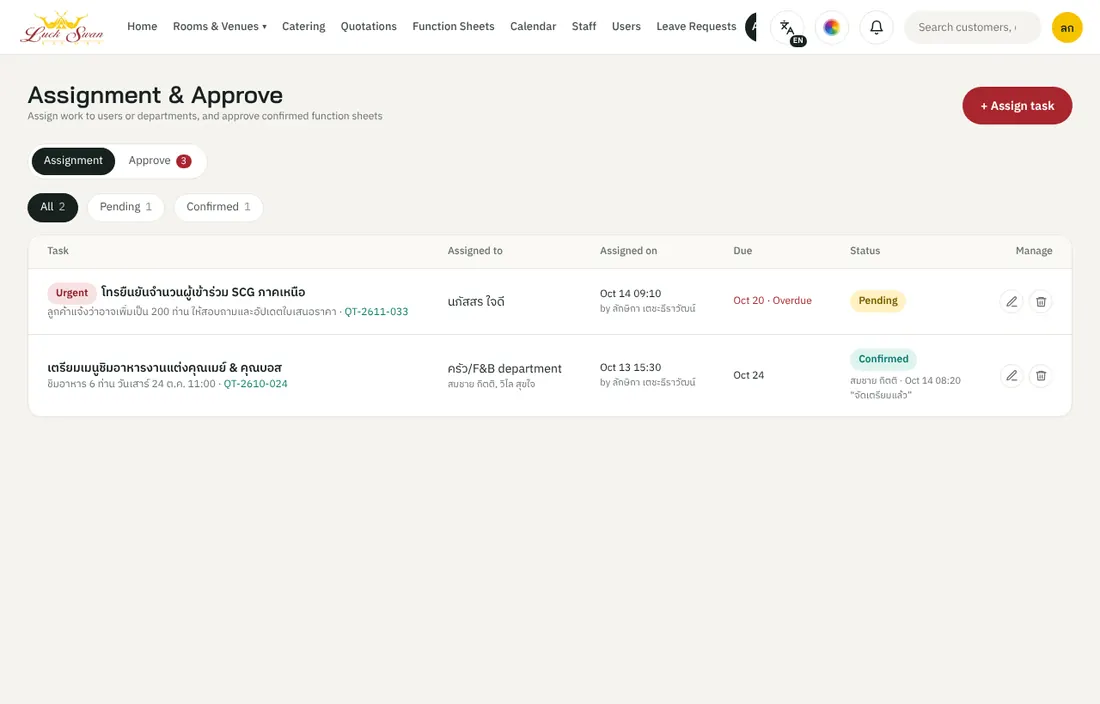
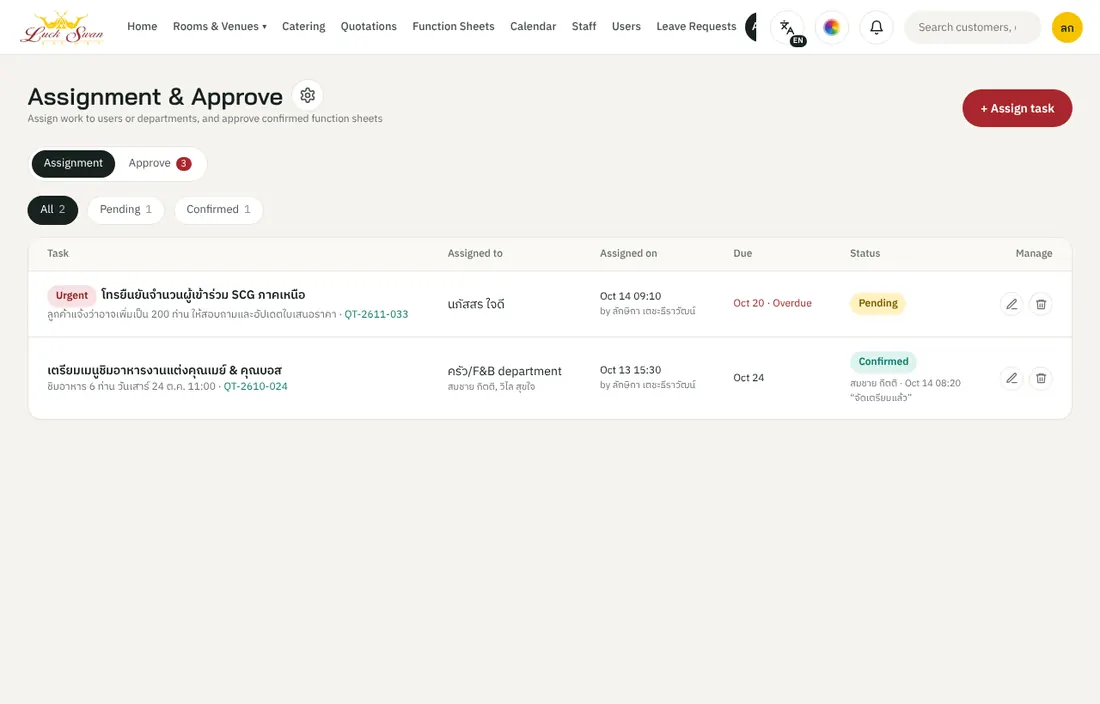
Manual 1.1 (Thai): meeting-room editing, net pricing, quotation copies and sheet editing, role permissions, assignment permissions
New screenshots for the meeting-room editor, the quotation's customer
and full copies and sheet editing, assigning to a department by site,
and the assignment permissions (org chart and form). shots.js: the
ONLY filter was inside a comment; it now works.

Claude-Session: https://claude.ai/code/session_015bPeSMdisNsHViU4e5orFu

diff --git a/docs/manual/content.th.js b/docs/manual/content.th.js
@@ -14,7 +14,7 @@ window.MANUAL.th = {
     title: 'คู่มือการใช้งานระบบงานขาย',
     subtitle: 'ลักษวรรณ รีสอร์ท — ใบเสนอราคา ห้องประชุม ห้องพัก จัดเลี้ยง ใบฟังก์ชัน พนักงาน ใบลา และงานที่มอบหมาย',
     url: 'https://luckswan-sales.it-luckswan.workers.dev',
-    version: '1.0', updated: '21 ต.ค. 2569',
+    version: '1.1', updated: '22 ต.ค. 2569',
     intro: 'ระบบงานขายเป็นเว็บแอปที่ใช้ได้ทั้งคอมพิวเตอร์ iPad และมือถือ ทุกคนเห็นข้อมูลชุดเดียวกันแบบเรียลไทม์ เมนูที่แต่ละคนเห็นขึ้นกับบทบาทและสิทธิ์ที่ผู้ดูแลระบบกำหนดให้ คู่มือนี้อธิบายทุกหมวดตั้งแต่เข้าสู่ระบบจนถึงงานของแต่ละแผนก พร้อมรูปหน้าจอจริงประกอบทุกขั้นตอน'
   },
   groups: [
@@ -87,10 +87,12 @@ window.MANUAL.th = {
         'เลือกรูปแบบการจัดห้อง: Theatre · Classroom · U-shape · Banquet · Cocktail — ระบบคำนวณความจุให้ตามรูปแบบ',
         'ดูการ์ดห้อง: ขนาด ความจุ ราคาเต็มวัน และสถานะ เช่น “ว่างทั้ง 2 วัน” หรือแถบแดงบอกวันที่มีงานแล้ว',
         'กดการ์ดห้อง เพื่อดูรายละเอียดด้านขวา: รูปห้อง ผังที่นั่ง เงื่อนไขห้อง และอุปกรณ์ในห้อง',
-        'กด “เลือกห้องนี้” เพื่อใส่ห้องลงในใบเสนอราคาที่กำลังทำ (แสดงเลขใบที่ “สำหรับ QT-…” ใต้หัวข้อ กด “เปลี่ยน” เพื่อเปลี่ยนใบ)'
+        'กด “เลือกห้องนี้” เพื่อใส่ห้องลงในใบเสนอราคาที่กำลังทำ (แสดงเลขใบที่ “สำหรับ QT-…” ใต้หัวข้อ กด “เปลี่ยน” เพื่อเปลี่ยนใบ)',
+        'รูปตัวอย่างห้อง: ปัดซ้าย-ขวา หรือกดลูกศร ‹ › เพื่อเลื่อนดูรูปถัดไป ทั้งในการ์ดห้องและแผงด้านขวา (ตัวนับ เช่น 2/3 บอกรูปที่กำลังดู)',
+        'ปุ่มดินสอ ✏ มุมขวาล่างของการ์ดห้อง (ผู้มีสิทธิ์แก้ราคา): แก้รูปตัวอย่าง (อัปโหลดได้หลายรูป ลบ เลื่อนลำดับ รูปแรกเป็นหน้าปก) ราคาเต็มวัน/ครึ่งวัน จำนวนคนที่รองรับแต่ละรูปแบบ (ต่ำสุด–สูงสุด เช่น 150–300 คน) พื้นที่ งานเลี้ยงการันตีขั้นต่ำ คำอธิบาย และสิ่งที่มีในห้อง แล้วกด “บันทึก” — มีปุ่ม “คืนค่าเริ่มต้น”'
       ],
-      shots: [{ img: 'meet', cap: 'รายการห้องประชุม พร้อมความจุและสถานะว่าง' }, { img: 'meet-sel', cap: 'เลือกห้องแล้ว: ผังที่นั่ง เงื่อนไข และอุปกรณ์ในห้อง' }],
-      tips: ['ถ้าจองห้องทับเวลากับงานอื่น ระบบจะเตือน และต้องให้ผู้ดูแลระบบอนุมัติก่อน', 'ห้องที่เกินความจุของรูปแบบที่เลือกจะขึ้นเตือน']
+      shots: [{ img: 'meet', cap: 'รายการห้องประชุม พร้อมความจุและสถานะว่าง' }, { img: 'meet-sel', cap: 'เลือกห้องแล้ว: ผังที่นั่ง เงื่อนไข และอุปกรณ์ในห้อง' }, { img: 'meet-edit', cap: 'แก้ไขห้องประชุม: รูป ราคา และจำนวนคนที่รองรับ' }],
+      tips: ['ถ้าจองห้องทับเวลากับงานอื่น ระบบจะเตือน และต้องให้ผู้ดูแลระบบอนุมัติก่อน', 'ห้องที่เกินความจุของรูปแบบที่เลือกจะขึ้นเตือน', 'ราคาห้องที่แก้ใหม่ ใช้กับรายการที่เพิ่มเข้าใบเสนอราคาหลังจากนี้ ใบเดิมไม่เปลี่ยน']
     },
     {
       id: 'rooms', group: 'sell', icon: 'bed', title: 'ห้องพักและการตั้งราคาห้อง', who: 'ฝ่ายขาย · ผู้ดูแลระบบ (ตั้งราคา)',
@@ -127,20 +129,20 @@ window.MANUAL.th = {
         'ค้นหาด้วยชื่อลูกค้าหรือเลขที่ใบ แล้วกดแถวเพื่อเปิด',
         'ในหน้าใบเสนอราคา รายการแบ่งเป็น ห้องประชุม · อาหารและเครื่องดื่ม · ห้องพัก — แก้จำนวนหรือราคาในช่องได้ทันที กด “+ เพิ่มรายการ…” เพื่อเพิ่ม',
         'สลับมุมมอง “ตาราง / ไทม์ไลน์” มุมขวาบน เพื่อดูกำหนดการรายวัน',
-        'กล่องสรุปยอดด้านขวา: ยอดก่อนส่วนลด · ส่วนลด · ค่าบริการ 10% · VAT 7% · ยอดสุทธิ และเฉลี่ยต่อท่าน',
+        'กล่องสรุปยอดด้านขวา: ราคาในใบเป็นราคา Net (รวม Service Charge และ VAT แล้ว) — ยอดรวมก่อนส่วนลด · ส่วนลด · ราคาก่อน Service Charge และ VAT · ค่าบริการ 10% · รวมก่อน VAT · VAT 7% · ยอดสุทธิ และเฉลี่ยต่อท่าน',
         'ส่วนลดเกิน 10% ต้องให้ผู้จัดการฝ่ายขายอนุมัติ',
         'ด้านล่างกำหนด ยืนราคาถึง · มัดจำ (เช่น 30% ภายใน 7 วันหลังยืนยัน) · จองห้องชั่วคราวถึงวันที่',
         'กด “แก้ไขข้อมูลลูกค้าและเงื่อนไข” เพื่อแก้ชื่อลูกค้า ผู้ติดต่อ เบอร์ อีเมล',
         'เปลี่ยนสถานะใบ (ส่งแล้ว / จองชั่วคราว / ยืนยันแล้ว / ยกเลิก) และดูประวัติการแก้ไขได้ที่ท้ายหน้า'
       ],
       shots: [{ img: 'quotes', cap: 'รายการใบเสนอราคาพร้อมตัวกรองสถานะ' }, { img: 'quote-edit', cap: 'หน้าแก้ไขใบเสนอราคาและกล่องสรุปยอด' }],
-      tips: ['ระบบบันทึกอัตโนมัติทุกครั้งที่แก้', 'ใบที่ยืนยันแล้วจะสร้างใบฟังก์ชันต่อได้']
+      tips: ['ระบบบันทึกอัตโนมัติทุกครั้งที่แก้', 'ใบที่ยืนยันแล้วจะสร้างใบฟังก์ชันต่อได้', 'วิธีถอดยอด: ราคาก่อน SC/VAT = ยอดสุทธิ ÷ 1.177 → Service Charge 10% ของราคานั้น → รวมก่อน VAT → VAT 7% เช่น 1,200 = 1,019.54 + 101.95 + 78.51']
     },
     {
       id: 'newquote', group: 'sell', icon: 'plus', title: 'สร้างใบเสนอราคาใหม่ (5 ขั้นตอน)', who: 'ฝ่ายขาย · ผู้จัดการฝ่ายขาย',
       intro: 'กด “+ ใบเสนอราคาใหม่” ระบบพาทำทีละขั้น ด้านขวาแสดงยอดสุทธิ (รวม Service + VAT) ตลอดเวลา',
       steps: [
-        'ขั้น 1 ลูกค้า: กรอกชื่องาน* และลูกค้า/บริษัท* ผู้ติดต่อ โทรศัพท์ อีเมล วันเริ่ม–วันสิ้นสุด และจำนวนผู้เข้าร่วม แล้วกด “ถัดไป”',
+        'ขั้น 1 ลูกค้า: กรอกชื่องาน* และลูกค้า/บริษัท* เลขผู้เสียภาษี (เลข 13 หลัก ไม่บังคับ) ผู้ติดต่อ โทรศัพท์ อีเมล วันเริ่ม–วันสิ้นสุด และจำนวนผู้เข้าร่วม แล้วกด “ถัดไป”',
         'ขั้น 2 ห้องประชุม: เลือกรูปแบบห้อง และติ๊กเลือกห้อง (ระบบบอกความจุและราคา) เลือกครึ่งวัน/เต็มวัน และ AV Package ได้',
         'ขั้น 3 อาหาร: เปิด/ปิดแต่ละมื้อ (Coffee break เช้า · อาหารกลางวัน · Coffee break บ่าย · Gala dinner · Cocktail) แล้วเลือกเมนู เพิ่มข้อจำกัดด้านอาหารได้',
         'ขั้น 4 ห้องพัก: กำหนดจำนวนคืน และจำนวนห้องแต่ละประเภท',
@@ -155,13 +157,16 @@ window.MANUAL.th = {
       intro: 'จากหน้าใบเสนอราคา กดปุ่ม “ส่ง / พิมพ์” จะเห็นตัวอย่างเอกสารจริงด้านซ้าย และแผงส่งด้านขวา',
       steps: [
         'ตรวจเอกสารด้านซ้าย (หัวบริษัท ผู้รับบริการ รายการ ราคา เงื่อนไข)',
+        'เลือกรูปแบบใบเสนอราคาที่แผงขวา: “ใบเสนอราคาสำหรับลูกค้า” (ซ่อนบรรทัดแยก Service Charge และ VAT แสดงยอดรวมสุทธิ) หรือ “ใบเสนอราคาฉบับเต็ม” (แสดงครบทุกบรรทัด) — พิมพ์และส่งตามแบบที่เลือก',
+        'กด “แก้ไขข้อมูล” (ฝ่ายขาย): ข้อความบนใบกลายเป็นช่องเส้นประให้พิมพ์แก้ได้ เช่น ชื่อลูกค้า ที่อยู่ เลขผู้เสียภาษี ชื่อรายการ รายละเอียด จำนวน เงื่อนไข ชื่อผู้ลงนาม — ปุ่ม ↺ = ใช้ค่าจากระบบ แล้วกด “บันทึกแก้ไขข้อมูล” (มีผลเฉพาะใบนั้น)',
+        'ส่วนห้องประชุมบนใบ: แสดงรูปห้องและราคา พิมพ์รายละเอียดห้องเองได้ในโหมดแก้ไข (กด “+ ใส่รายละเอียดห้องจากระบบ” เพื่อดึงข้อความเดิม) และกดที่รูปเพื่ออัปโหลดรูปใหม่ ✕ ลบรูป ↺ ใช้รูปของห้อง',
         'กด “พิมพ์ / PDF” เพื่อพิมพ์หรือบันทึกเป็น PDF',
         'ส่งทางอีเมล: ใส่อีเมลผู้รับ แก้ข้อความ เลือก “ให้ลูกค้ากดยืนยันและเซ็นออนไลน์” และ “แสดงราคาต่อหน่วย”',
         'กำหนด “ยืนราคาถึง” แล้วกด “ส่งใบเสนอราคา”',
         'ดูประวัติการส่งได้ที่ท้ายแผง'
       ],
-      shots: [{ img: 'quote-doc', cap: 'ตัวอย่างใบเสนอราคาและแผงส่งทางอีเมล' }],
-      tips: ['เอกสารที่ส่งให้ลูกค้าเป็นภาษาไทยเสมอ แม้จะใช้แอปเป็นภาษาอื่น']
+      shots: [{ img: 'quote-doc', cap: 'ใบเสนอราคาสำหรับลูกค้า และแผงส่งทางอีเมล' }, { img: 'quote-doc-full', cap: 'ใบเสนอราคาฉบับเต็ม (แสดงบรรทัดแยก Service Charge และ VAT)' }, { img: 'quote-doc-edit', cap: 'แก้ไขข้อมูลบนใบเสนอราคา' }],
+      tips: ['เอกสารที่ส่งให้ลูกค้าเป็นภาษาไทยเสมอ แม้จะใช้แอปเป็นภาษาอื่น', 'ยอดเงินและราคารวมแก้บนใบไม่ได้ — แก้ที่รายการในหน้าใบเสนอราคา', 'เงื่อนไขท้ายใบมีบรรทัด “ชำระผ่านบัตรเครดิตมีค่าบริการเพิ่ม 3% ของยอดใบเสนอราคา” · ใบที่เคยแก้ช่องเงื่อนไขเอง กด ↺ เพื่อรับข้อความล่าสุด']
     },
     {
       id: 'beo', group: 'event', icon: 'list', title: 'ใบฟังก์ชัน (BEO)', who: 'ฝ่ายขาย · ผู้จัดการ · หัวหน้าแผนก · บัญชี (ดู)',
@@ -173,13 +178,13 @@ window.MANUAL.th = {
         'กำหนดการรายวัน: เวลา รายละเอียด สถานที่ และแผนกที่รับผิดชอบ (สลับ “วันที่ 1 / วันที่ 2”) — นำเข้าจากไฟล์ Excel ได้',
         'การ์ดแต่ละแผนก (ครัว จัดเลี้ยง ช่าง ส่วนหน้า แม่บ้าน บัญชี) แสดงรายการงานและสถานะ “รับทราบแล้ว / รอรับทราบ” กด “แก้ไข” เพื่อเพิ่มงานของแผนก',
         'ทุกครั้งที่แก้หลังส่งแล้ว ระบบนับ “แก้ไขครั้งที่ …” และส่งให้ผู้ดูแลระบบอนุมัติก่อนส่งแผนก',
-        'ปุ่มด้านบน: รายละเอียดฟังก์ชัน · ใบสรุปสำหรับฝ่ายขาย · ออกแบบผังงาน · แก้ไขปรับปรุง · พิมพ์ / PDF'
+        'ปุ่มด้านบน: รายละเอียดฟังก์ชัน · ใบสรุปสำหรับฝ่ายขาย · ออกแบบผังงาน (ผู้ดูแลระบบ แผนก F&B และแผนกจัดเลี้ยง) · แก้ไขปรับปรุง (ผู้ดูแลระบบ) · พิมพ์ / PDF'
       ],
       shots: [{ img: 'beo', cap: 'ใบฟังก์ชัน: กำหนดการรายวันและการ์ดแต่ละแผนก' }, { img: 'beo-list', cap: 'รายการใบฟังก์ชันพร้อมสถานะการรับทราบ' }],
       tips: ['หัวหน้าแผนกควรกด “รับทราบ” ทุกครั้งที่มีใบใหม่หรือมีการแก้ไข']
     },
     {
-      id: 'plan', group: 'event', icon: 'grid', title: 'ออกแบบผังงานและแก้ไขปรับปรุงห้อง', who: 'ฝ่ายขาย · หัวหน้าจัดเลี้ยง',
+      id: 'plan', group: 'event', icon: 'grid', title: 'ออกแบบผังงานและแก้ไขปรับปรุงห้อง', who: 'ผู้ดูแลระบบ · แผนก F&B · แผนกจัดเลี้ยง (หัวหน้าและพนักงาน)',
       intro: 'วาดผังการจัดห้องจากใบฟังก์ชัน พิมพ์แนบให้ทีมจัดห้อง',
       steps: [
         'จากใบฟังก์ชัน กด “ออกแบบผังงาน” เลือกวัน (วันที่ 1 / วันที่ 2)',
@@ -189,13 +194,14 @@ window.MANUAL.th = {
         '“แก้ไขปรับปรุง”: ตั้งขนาดห้อง (เมตร) และของที่ห้ามย้าย เช่น เวที ประตู เสา ปลั๊ก — ใช้กับทุกงานของห้องนั้น'
       ],
       shots: [{ img: 'plan', cap: 'ออกแบบผังงาน: เทมเพลต เพิ่มของ และผังห้อง' }, { img: 'plansetup', cap: 'แก้ไขปรับปรุง: ขนาดห้องและของที่ห้ามย้าย' }],
-      tips: ['ผังพิมพ์เป็น PDF แนบกับใบฟังก์ชันได้']
+      tips: ['ผังพิมพ์เป็น PDF แนบกับใบฟังก์ชันได้', 'ระบบดูจากช่อง “แผนก” ในบัญชีผู้ใช้: ครัว / F&B / อาหารและเครื่องดื่ม / จัดเลี้ยง / Banquet — คนอื่นเห็นภาพผังย่อในใบฟังก์ชันได้ แต่เปิดหน้าออกแบบไม่ได้', '“แก้ไขปรับปรุง” ใช้ได้เฉพาะผู้ดูแลระบบ']
     },
     {
-      id: 'fnforms', group: 'event', icon: 'print', title: 'รายละเอียดฟังก์ชันและใบสรุปสำหรับฝ่ายขาย', who: 'ฝ่ายขาย · บัญชี',
+      id: 'fnforms', group: 'event', icon: 'print', title: 'รายละเอียดฟังก์ชันและใบสรุปสำหรับฝ่ายขาย', who: 'ผู้ดูแลระบบ · ผู้จัดการฝ่ายขาย · พนักงานขาย (แก้ไข) · บัญชี · หัวหน้าแผนก (ดู)',
       intro: 'แบบฟอร์มสำหรับพิมพ์ ตรงตามฟอร์มกระดาษเดิมของโรงแรม ข้อมูลดึงจากใบเสนอราคาและใบฟังก์ชัน',
       steps: [
-        'กด “รายละเอียดฟังก์ชัน” — สลับ “ตัวอย่างพิมพ์ / แก้ไขข้อมูล” ใส่ Function No. (ระบบออกเลขอัตโนมัติหรือกรอกเอง)',
+        'กด “รายละเอียดฟังก์ชัน” — สลับ “ตัวอย่างพิมพ์ / แก้ไขข้อมูล” ใส่ Function No. (ระบบออกเลขอัตโนมัติหรือกรอกเอง) — แท็บแก้ไขข้อมูล ปุ่ม “+ เพิ่มรายละเอียด” และการออกเลข ใช้ได้เฉพาะผู้ดูแลระบบ ผู้จัดการฝ่ายขาย และพนักงานขาย',
+        'ส่วน “แผนกบัญชี / การเงิน” (ยอดรวม รายละเอียดค่าใช้จ่าย ที่อยู่ออกบิล) เห็นเฉพาะผู้ดูแลระบบ ผู้จัดการฝ่ายขาย พนักงานขาย และบัญชี — บทบาทอื่นเห็นเฉพาะแผนกต้อนรับเต็มความกว้าง',
         'กด “ใบสรุปสำหรับฝ่ายขาย” — สรุปรายรับจากฟังก์ชัน ค่าอาหาร อาหารว่าง ห้องพัก และรายละเอียดใบกำกับภาษี',
         'ตรวจแล้วกด “พิมพ์ / PDF”'
       ],
@@ -255,17 +261,20 @@ window.MANUAL.th = {
       tips: []
     },
     {
-      id: 'tasks', group: 'people', icon: 'check', title: 'Assignment & Approve (งานที่มอบหมายและการอนุมัติ)', who: 'ทุกคน (รับงาน) · ผู้ดูแลระบบ (Approve)',
+      id: 'tasks', group: 'people', icon: 'check', title: 'Assignment & Approve (งานที่มอบหมายและการอนุมัติ)', who: 'ทุกคน (รับงาน) · ผู้ดูแลระบบและบทบาทที่ได้รับสิทธิ์ (มอบหมายงาน) · ผู้ดูแลระบบ (Approve · ⚙ ตั้งค่าสิทธิ์)',
       intro: 'มอบหมายงานให้ผู้ใช้หรือทั้งแผนก ติดตามสถานะ และอนุมัติใบฟังก์ชันที่แก้ไข',
       steps: [
         'แท็บ Assignment: ดูงานทั้งหมด กรอง รอดำเนินการ / ยืนยันแล้ว — งานด่วนมีป้าย “ด่วน” งานเลยกำหนดเป็นสีแดง',
         'กด “+ มอบหมายงาน” กรอกชื่องาน รายละเอียด มอบให้ (ผู้ใช้ หรือ แผนก) กำหนดเสร็จ ความด่วน และผูกกับใบเสนอราคาได้',
+        'มอบให้แผนก: กดปุ่ม “สถานที่” (ทุกสถานที่ · รีสอร์ท · บูติก · มณีอินทร์ · ช.ดรักส์ · ช.เฮ้าส์ · ภูมณีพันธุ์) ตัวเลขบนปุ่มบอกจำนวนพนักงานของแผนกในสถานที่นั้น แล้วติ๊กเลือกพนักงาน (ไม่เลือก = ทั้งแผนก) — สถานที่แสดงในตารางงาน',
+        'ปุ่ม ⚙ ข้างหัวข้อ (ผู้ดูแลระบบ): ตั้งค่าสิทธิ์การสั่งงาน 2 แบบ — “แบบผังองค์กร” (บทบาทด้านบนสั่งงานได้ทุกบทบาทและแผนกที่อยู่ใต้สาย เปลี่ยน “อยู่ใต้” เพื่อย้าย มีปุ่ม − + พอดีจอ 100% สำหรับซูม และ ✏ แก้ชื่อ ＋ เพิ่มบทบาท/แผนก 🗑 ลบ บนกล่อง) หรือ “แบบฟอร์มสำหรับเลือก” (แต่ละบทบาทเลือกบทบาทและแผนกที่สั่งงานได้) — กดบันทึกแล้วใช้แบบที่เลือก',
+        'บทบาทที่ได้รับสิทธิ์จะเห็นปุ่ม “+ มอบหมายงาน” (เลือกได้เฉพาะคนและแผนกที่อนุญาต) และรายการ “งานที่ฉันมอบหมาย” ซึ่งแก้ไข/ลบได้เฉพาะงานของตัวเอง และได้แจ้งเตือนเมื่อผู้รับยืนยัน',
         'ผู้รับงานกดงานจากหน้าหลักหรือกระดิ่ง เพื่อดูรายละเอียด แล้วกด “ยืนยัน” พร้อมข้อความ เช่น “จัดเตรียมแล้ว”',
         'แท็บ Approve (ผู้ดูแลระบบ): รายการใบฟังก์ชันที่รออนุมัติ กด “ดู” เพื่อเทียบการเปลี่ยนแปลง แล้ว “อนุมัติ” หรือตีกลับ',
         'ใบที่อนุมัติแล้ว ส่งให้แผนกได้ และย้ายไปส่วน “อนุมัติแล้ว”'
       ],
-      shots: [{ img: 'tasks', cap: 'รายการงานที่มอบหมาย' }, { img: 'task-new', cap: 'มอบหมายงานใหม่' }, { img: 'task-view', cap: 'รายละเอียดงานที่ได้รับ' }, { img: 'tasks-approve', cap: 'Approve: ใบฟังก์ชันรออนุมัติ' }],
-      tips: ['งานที่มอบให้แผนก ทุกคนในแผนกเห็นและยืนยันได้']
+      shots: [{ img: 'tasks', cap: 'รายการงานที่มอบหมาย และปุ่ม ⚙ ตั้งค่าสิทธิ์' }, { img: 'task-new', cap: 'มอบหมายงานใหม่' }, { img: 'task-site', cap: 'มอบให้แผนก: เลือกสถานที่และพนักงาน' }, { img: 'task-perms-org', cap: 'ตั้งค่าสิทธิ์การสั่งงาน: แบบผังองค์กร' }, { img: 'task-perms-form', cap: 'ตั้งค่าสิทธิ์การสั่งงาน: แบบฟอร์มสำหรับเลือก' }, { img: 'task-view', cap: 'รายละเอียดงานที่ได้รับ' }, { img: 'tasks-approve', cap: 'Approve: ใบฟังก์ชันรออนุมัติ' }],
+      tips: ['งานที่มอบให้แผนก ทุกคนในแผนกเห็นและยืนยันได้', 'ถ้ายังไม่ตั้งค่าสิทธิ์ มีเพียงผู้ดูแลระบบที่มอบหมายงานได้ · ผู้ดูแลระบบสั่งงานได้ทุกคนเสมอ', 'ลบบทบาทหรือแผนกในผังได้เฉพาะที่สร้างเพิ่มเองและไม่มีคนอยู่ · การเปลี่ยนแปลงในผังมีผลเมื่อกดบันทึก']
     },
     {
       id: 'leave', group: 'people', icon: 'leave', title: 'การแจ้งใบลา (QT · เปลี่ยนวันหยุด · ลืมสแกนนิ้ว)', who: 'ทุกคน (แจ้ง) · ผู้ดูแลระบบ (ลงนาม/อนุมัติ) · ฝ่ายบุคคล (ข้อมูลรายละเอียด)',
@@ -292,7 +301,7 @@ window.MANUAL.th = {
         'กด “+ เพิ่มผู้ใช้” กรอกชื่อ อีเมล (ใช้เข้าสู่ระบบ) เบอร์ บทบาท แผนก แล้วบันทึก — รหัสผ่านเริ่มต้นแจ้งผู้ใช้ให้เปลี่ยนเมื่อเข้าครั้งแรก',
         'กดชื่อผู้ใช้ เพื่อดูแผงด้านขวา เปิด/ปิดสิทธิ์รายข้อ เช่น สร้างและส่งใบเสนอราคา · ให้ส่วนลดได้ถึง 10% · อนุมัติส่วนลดเกิน 10% · ดูใบฟังก์ชันและปฏิทิน · จัดการข้อมูลลูกค้า · จัดรอบพนักงาน · จัดการผู้ใช้งาน · แก้ไขราคาและแพ็กเกจ · ดูข้อมูลรายละเอียดใบลา (ฝ่ายบุคคล)',
         'กด ✏ เพื่อแก้ไขข้อมูล เปลี่ยนสถานะ (ใช้งานอยู่ / ปิดใช้) ยืนยันตัวตน 2 ขั้นตอน หรือรีเซ็ตรหัสผ่าน',
-        'บทบาท: กด “+ เพิ่มบทบาท” ตั้งชื่อ เลือกเมนูที่มองเห็นและสิทธิ์ แล้วบันทึก — เมื่อบันทึกบทบาท สิทธิ์จะอัปเดตให้ทุกคนในบทบาทนั้น'
+        'บทบาท: กด “+ เพิ่มบทบาท” ตั้งชื่อ เลือกเมนูที่มองเห็นและสิทธิ์ แล้วบันทึก — เมื่อบันทึกบทบาท สิทธิ์จะอัปเดตให้ทุกคนในบทบาทนั้น (เพิ่ม/แก้ชื่อ/ลบบทบาทจากผังองค์กรใน Assignment ⚙ ได้ด้วย)'
       ],
       shots: [{ img: 'users', cap: 'รายชื่อผู้ใช้และแผงสิทธิ์' }, { img: 'user-edit', cap: 'แก้ไขข้อมูลผู้ใช้' }, { img: 'role', cap: 'สิทธิ์การใช้งานรายข้อ' }],
       tips: ['เปลี่ยนบทบาทแล้ว สิทธิ์จะเปลี่ยนตามบทบาทใหม่ (ปรับรายข้อได้ภายหลัง)', 'ใบเสนอราคาที่ส่งไปแล้วไม่เปลี่ยนตามการเปลี่ยนสิทธิ์']
@@ -326,8 +335,8 @@ window.MANUAL.th = {
       id: 'q-sales', title: 'ฝ่ายขาย (พนักงานขาย)', color: '#0E9F8E', menus: 'หน้าหลัก · การจัดการห้อง · จัดเลี้ยง · ใบเสนอราคา · ใบฟังก์ชัน · ปฏิทิน · การแจ้งใบลา · Assignment',
       can: ['สร้างและส่งใบเสนอราคา', 'ให้ส่วนลดได้ถึง 10%', 'ดูใบฟังก์ชันและปฏิทินการจอง', 'จัดการข้อมูลลูกค้า'],
       steps: [
-        'กด “+ ใบเสนอราคาใหม่” › ทำ 5 ขั้น: ลูกค้า › ห้องประชุม › อาหาร › ห้องพัก › สรุป',
-        'เปิดใบเสนอราคา › ปรับรายการ ส่วนลด เงื่อนไข › กด ส่ง / พิมพ์ › ส่งอีเมลหรือพิมพ์ PDF',
+        'กด “+ ใบเสนอราคาใหม่” › ทำ 5 ขั้น: ลูกค้า (ใส่เลขผู้เสียภาษีได้) › ห้องประชุม › อาหาร › ห้องพัก › สรุป',
+        'เปิดใบเสนอราคา › ปรับรายการ ส่วนลด เงื่อนไข › กด ส่ง / พิมพ์ › เลือก ใบสำหรับลูกค้า / ฉบับเต็ม › แก้ข้อมูลบนใบได้ › ส่งอีเมลหรือพิมพ์ PDF',
         'ลูกค้ายืนยัน › เปลี่ยนสถานะเป็น “ยืนยันแล้ว” › ใบฟังก์ชัน › “+ สร้างจากใบเสนอ”',
         'กรอกกำหนดการรายวันและงานของแต่ละแผนก › ติดตามการรับทราบ',
         'ดูปฏิทินก่อนรับงานใหม่ เพื่อเช็คห้องว่าง'
@@ -340,7 +349,7 @@ window.MANUAL.th = {
       steps: [
         'ตรวจใบเสนอราคาที่ส่วนลดเกิน 10% แล้วอนุมัติ',
         'ดูหน้าหลัก: เป้าเดือน และใบเสนอราคาล่าสุด',
-        'มอบหมายงานให้ทีม: Assignment › “+ มอบหมายงาน”',
+        'มอบหมายงานให้ทีม: Assignment › “+ มอบหมายงาน” (เมื่อผู้ดูแลระบบให้สิทธิ์ใน ⚙)',
         'อนุมัติคำขอต่อรอบ (QT) ในหน้ารอบพนักงาน',
         'เพิ่ม/แก้ไขผู้ใช้ในทีมขาย และกำหนดสิทธิ์'
       ],
@@ -351,7 +360,7 @@ window.MANUAL.th = {
       can: ['ดูใบฟังก์ชันและปฏิทินการจอง', 'จัดรอบพนักงาน / อนุมัติต่อรอบ'],
       steps: [
         'เช็คกระดิ่งทุกเช้า: ใบฟังก์ชันใหม่หรือแก้ไข › เปิดใบ › กด “รับทราบ” ในการ์ดแผนกของตัวเอง',
-        'ดูกำหนดการรายวันและผังงาน เพื่อเตรียมของและคน',
+        'ดูกำหนดการรายวันและผังงาน เพื่อเตรียมของและคน (F&B และจัดเลี้ยง: ออกแบบผังงานได้)',
         'พนักงาน › รอบพนักงาน › เลือกงาน › จัดพนักงานเข้ารอบ › ขอต่อรอบเมื่อจำเป็น',
         'ดูแลรายชื่อพนักงานในแผนก (เพิ่ม/แก้ไข/นำเข้า)',
         'งานที่มอบหมายให้แผนก › เปิดดู › กด “ยืนยัน” เมื่อเตรียมเสร็จ'
@@ -364,6 +373,7 @@ window.MANUAL.th = {
       steps: [
         'ดูใบเสนอราคาที่ยืนยันแล้ว: ยอดสุทธิ เงื่อนไขมัดจำ และข้อมูลลูกค้า',
         'ใบฟังก์ชัน › “ใบสรุปสำหรับฝ่ายขาย” ตรวจรายรับ ค่าอาหาร ห้องพัก และข้อมูลใบกำกับภาษี › พิมพ์ / PDF',
+        'รายละเอียดฟังก์ชัน › ส่วน “แผนกบัญชี / การเงิน” ดูยอดรวมและรายละเอียดค่าใช้จ่าย',
         'รับทราบการ์ด “บัญชี (Accounting)” ในใบฟังก์ชัน',
         'ปฏิทิน › มุมมอง Pipeline ดูยอดที่รอยืนยัน'
       ],
@@ -385,13 +395,13 @@ window.MANUAL.th = {
       id: 'q-admin', title: 'ผู้ดูแลระบบ', color: '#17211F', menus: 'ทุกเมนู',
       can: ['ทุกสิทธิ์', 'ลงนามและอนุมัติใบลา', 'อนุมัติใบฟังก์ชันที่แก้ไข และการจองห้องทับเวลา', 'แก้ไขราคาห้องพักและเมนู', 'จัดการผู้ใช้ บทบาท และสิทธิ์'],
       steps: [
-        'Assignment & Approve › แท็บ Approve: อนุมัติใบฟังก์ชันที่แก้ไข',
+        'Assignment & Approve › แท็บ Approve: อนุมัติใบฟังก์ชันที่แก้ไข · ⚙ ตั้งค่าสิทธิ์การสั่งงาน (ผังองค์กร / แบบฟอร์ม)',
         'การแจ้งใบลา › แท็บ รออนุมัติ › เปิดใบ › ลงนาม / ไม่อนุมัติ',
         'ผู้ใช้งาน: สร้างบัญชี กำหนดบทบาทและสิทธิ์ เปิด/ปิดผู้ใช้',
-        'ตั้งราคาห้องพัก และแก้เมนูจัดเลี้ยงเมื่อราคาเปลี่ยน',
+        'ตั้งราคาห้องพัก แก้ห้องประชุม (✏ รูป ราคา จำนวนคน) และแก้เมนูจัดเลี้ยงเมื่อราคาเปลี่ยน',
         'Dashboard: ติดตามยอดขาย · สำรองข้อมูลเป็นระยะ'
       ],
-      shots: ['tasks-approve', 'leave-view', 'dash'], links: ['tasks', 'leave', 'users', 'rooms', 'food', 'dash', 'backup']
+      shots: ['tasks-approve', 'task-perms-org', 'leave-view', 'dash'], links: ['tasks', 'leave', 'users', 'meet', 'rooms', 'food', 'dash', 'backup']
     },
     {
       id: 'q-all', title: 'พนักงานทุกคน', color: '#6B716E', menus: 'หน้าหลัก · การแจ้งใบลา · งานที่มอบหมาย',
@@ -406,6 +416,7 @@ window.MANUAL.th = {
     }
   ],
   changelog: [
+    { v: '1.1', date: '22 ต.ค. 2569', text: 'ห้องประชุม: ปุ่ม ✏ แก้รูป ราคา จำนวนคน และเลื่อนดูรูปตัวอย่าง · ใบเสนอราคา: ราคาแบบ Net ถอดยอด Service Charge/VAT ย้อนกลับ ช่องเลขผู้เสียภาษี ใบสำหรับลูกค้า/ฉบับเต็ม แก้ไขข้อมูลบนใบ เปลี่ยนรูปห้องประชุม และเงื่อนไขบัตรเครดิต 3% · ใบฟังก์ชัน: สิทธิ์แก้ไขรายละเอียดฟังก์ชัน ส่วนบัญชี/การเงิน และออกแบบผังงาน (F&B · จัดเลี้ยง) · Assignment: เลือกสถานที่เมื่อมอบให้แผนก และ ⚙ ตั้งค่าสิทธิ์การสั่งงาน (ผังองค์กรพร้อมซูมและแก้ไข/เพิ่ม/ลบ หรือแบบฟอร์ม)' },
     { v: '1.0', date: '21 ต.ค. 2569', text: 'ฉบับแรก ครอบคลุมทุกหมวด: ใบเสนอราคา ห้องประชุม ห้องพัก จัดเลี้ยง ใบฟังก์ชัน ผังงาน ปฏิทิน พนักงาน (สถานที่ แผนก ตำแหน่ง นำเข้า) รอบพนักงาน งานที่มอบหมาย ใบลา ผู้ใช้งาน Dashboard ภาษา 3 ภาษา และธีมสี' }
   ]
 };

diff --git a/docs/manual/tools/shots.js b/docs/manual/tools/shots.js
@@ -1,5 +1,6 @@
 // every screen for the user manual, in th / en / my
-const { chromium } = require('playwright'); const BASE = 'http://localhost:8765/'; const OUT = process.argv[2]; // folder for the PNGs, e.g. /tmp/manual-raw const ONLY = process.argv[3] ? process.argv[3].split(',') : null;
+const { chromium } = require('playwright'); const BASE = 'http://localhost:8765/'; const OUT = process.argv[2]; // folder for the PNGs, e.g. /tmp/manual-raw
+const ONLY = process.argv[3] ? process.argv[3].split(',') : null;
 const W = ms => new Promise(r => setTimeout(r, ms));
 (async () => {
   const b = await chromium.launch(); const errs = [];
@@ -17,13 +18,13 @@ const W = ms => new Promise(r => setTimeout(r, ms));
     await click('[data-act=themeMenu]'); await shot('theme'); await close();
     await click('[data-act=notifs]'); await shot('notifs'); await close();
     await click('[data-act=userMenu]'); await shot('usermenu'); await close();
-    await go('#/meet'); await shot('meet'); await click('[data-act=meetSel]'); await shot('meet-sel');
+    await go('#/meet'); await shot('meet'); await click('[data-act=meetSel]'); await shot('meet-sel'); await click('[data-act=meetEdit]'); await shot('meet-edit'); await close();
     await go('#/rooms'); await shot('rooms');
     await go('#/roomrates'); await shot('roomrates');
     await go('#/food'); await shot('food'); await click('[data-act=foodEdit]'); await shot('food-edit'); await close();
     await go('#/quotes'); await shot('quotes');
     await go('#/quote/QT-2611-042'); await shot('quote-edit');
-    await go('#/doc/QT-2611-042'); await shot('quote-doc');
+    await go('#/doc/QT-2611-042'); await shot('quote-doc'); await click('[data-act=docVer][data-v="1"]'); await shot('quote-doc-full'); await click('[data-act=qdTab][data-v=edit]'); await shot('quote-doc-edit'); await click('[data-act=qdCancel]'); await click('[data-act=docVer][data-v="0"]');
     await p.evaluate(() => { App.state.wiz = null; }); await go('#/new');
     for (const [f, v] of [['title', 'สัมมนาประจำปี 2027'], ['client', 'บจก. ตัวอย่าง จำกัด']]) { try { await p.fill(`[data-f=${f}]`, v); await p.dispatchEvent(`[data-f=${f}]`, 'input'); await p.dispatchEvent(`[data-f=${f}]`, 'change'); } catch (e) { errs.push('fill ' + f); } }
     await shot('wiz1');
@@ -40,7 +41,8 @@ const W = ms => new Promise(r => setTimeout(r, ms));
     await click('#emSiteBtn'); await click('#emDeptBtn'); await click('#emPosBtn'); await shot('staff-plus', true); await close();
     await click('[data-act=empImport]'); await shot('staff-import'); await close();
     await click('[data-act=stTab][data-v=rules]'); await shot('staff-rules');
-    await go('#/tasks'); await shot('tasks'); await click('[data-act=tkNew]'); await shot('task-new'); await close();
+    await go('#/tasks'); await shot('tasks'); await click('[data-act=tkNew]'); await shot('task-new'); await click('[data-to=dept]'); await shot('task-site'); await close();
+    await click('[data-act=tpOpen]'); await click('[data-tp-mode=org]'); await click('[data-tp-zoom=fit]'); await shot('task-perms-org'); await click('[data-tp-mode=form]'); await shot('task-perms-form'); await close();
     await go('#/home'); await click('[data-act=tkView]'); await shot('task-view'); await close();
     await go('#/tasks/approve'); await shot('tasks-approve');
     // leave: sample requests
